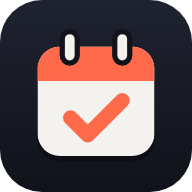
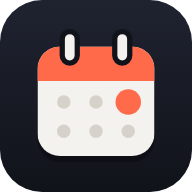
fix/icono

Changed region(s): [[0.2812, 0.4375, 0.75, 0.75]]

diff --git a/js/componentes/iconos.js b/js/componentes/iconos.js
@@ -9,8 +9,8 @@ const CALENDARIO = ['M7 4.5h10a3 3 0 0 1 3 3V17a3 3 0 0 1-3 3H7a3 3 0 0 1-3-3V7.
 const TRAZOS = {
   reloj: ['M12 3.5a8.5 8.5 0 1 0 0 17 8.5 8.5 0 0 0 0-17z', 'M12 7.5V12l3 2'],
   semana: [...CALENDARIO, 'M8 13.5h8', 'M8 16.5h5'],
-  // Mismo motivo que el icono de la app: calendario con check
-  calendario: [...CALENDARIO, 'M9 14.5l2 2 4-4'],
+  // Mismo motivo que el icono de la app: días del mes con el de hoy resaltado
+  calendario: [...CALENDARIO, 'M8.5 13.5h.01', 'M12 13.5h.01', 'M8.5 16.8h.01', 'M12 16.8h.01', 'M15.5 16.8h.01', 'M15.5 12.75a.75.75 0 1 0 0 1.5.75.75 0 0 0 0-1.5z'],
   ajustes: ['M4 7h9', 'M19 7h1', 'M4 17h1', 'M11 17h9', 'M16 4.5a2.5 2.5 0 1 0 0 5 2.5 2.5 0 0 0 0-5z', 'M8 14.5a2.5 2.5 0 1 0 0 5 2.5 2.5 0 0 0 0-5z'],
   mas: ['M12 5v14', 'M5 12h14'],
   cerrar: ['M6.5 6.5l11 11', 'M17.5 6.5l-11 11'],

diff --git a/sw.js b/sw.js
@@ -1,7 +1,7 @@
 // sw.js — Funcionamiento sin conexión y notificaciones
 // Una sola caché: guarda todos los archivos la primera vez, los sirve al instante
 // y los actualiza en segundo plano (se ven en la siguiente apertura).
-const CACHE = 'horario-v3';
+const CACHE = 'horario-v4';
 const ARCHIVOS = [
   './',
   'index.html',

diff --git a/README.md b/README.md
@@ -223,7 +223,7 @@ Todo se guarda en `localStorage`. Al leer se valida cada elemento y se descarta 
 
 ## 11. Accesibilidad y seguridad
 
-- Icono de la app en `img/icono.svg` (calendario con marca de hecho, con versiones PNG para instalar); el resto de iconos son SVG en línea que heredan el color del tema, todos con `aria-label`.
+- Icono de la app en `img/icono.svg` (calendario con el día de hoy marcado por un punto, con versiones PNG para instalar); el resto de iconos son SVG en línea que heredan el color del tema, todos con `aria-label`.
 - Solo fuentes del sistema.
 - Contraste mínimo de 4.5:1 en texto, en ambos modos y con cualquier acento; contornos de controles de al menos 3:1.
 - Ventanas (hojas, menú +, avisos) como diálogos modales: foco contenido, **Esc** cierra y el foco regresa a quien las abrió.
